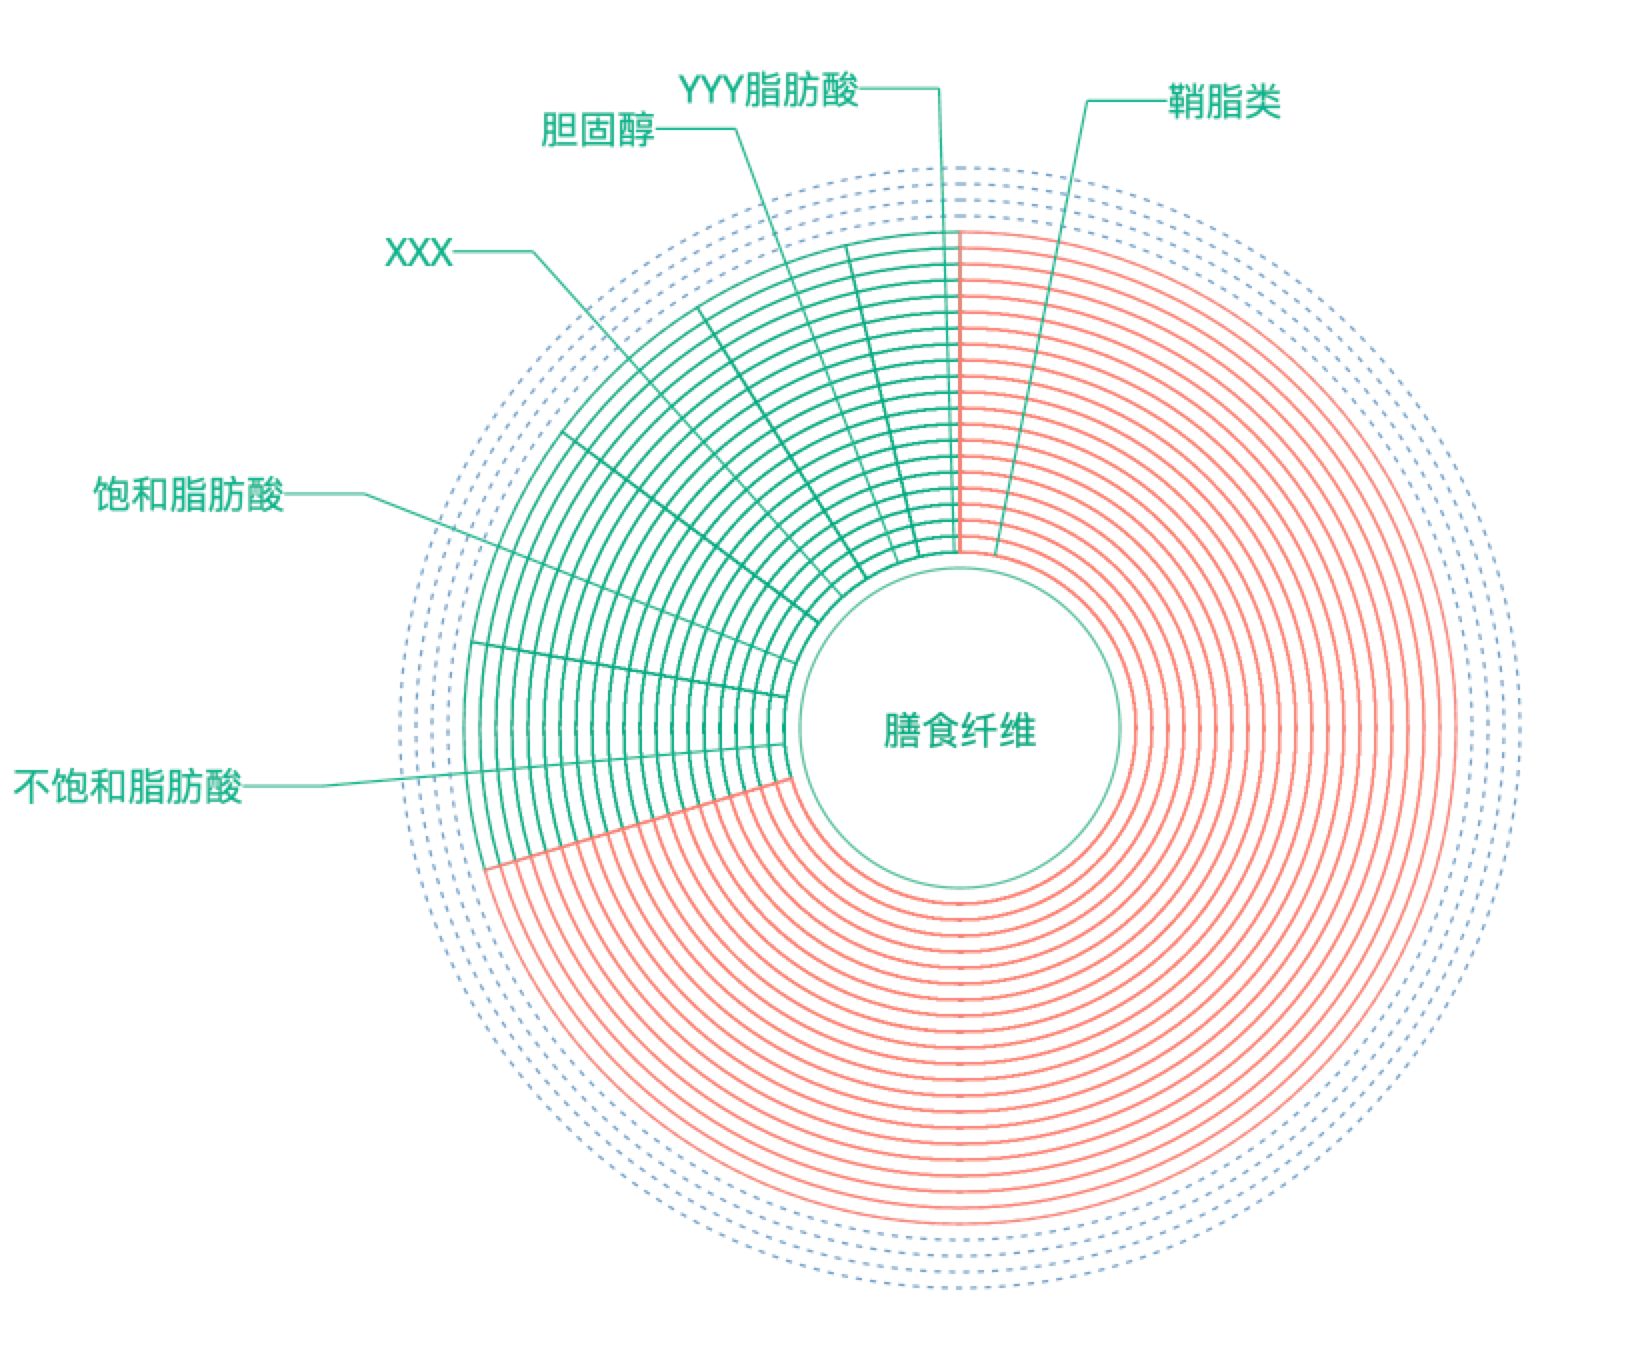
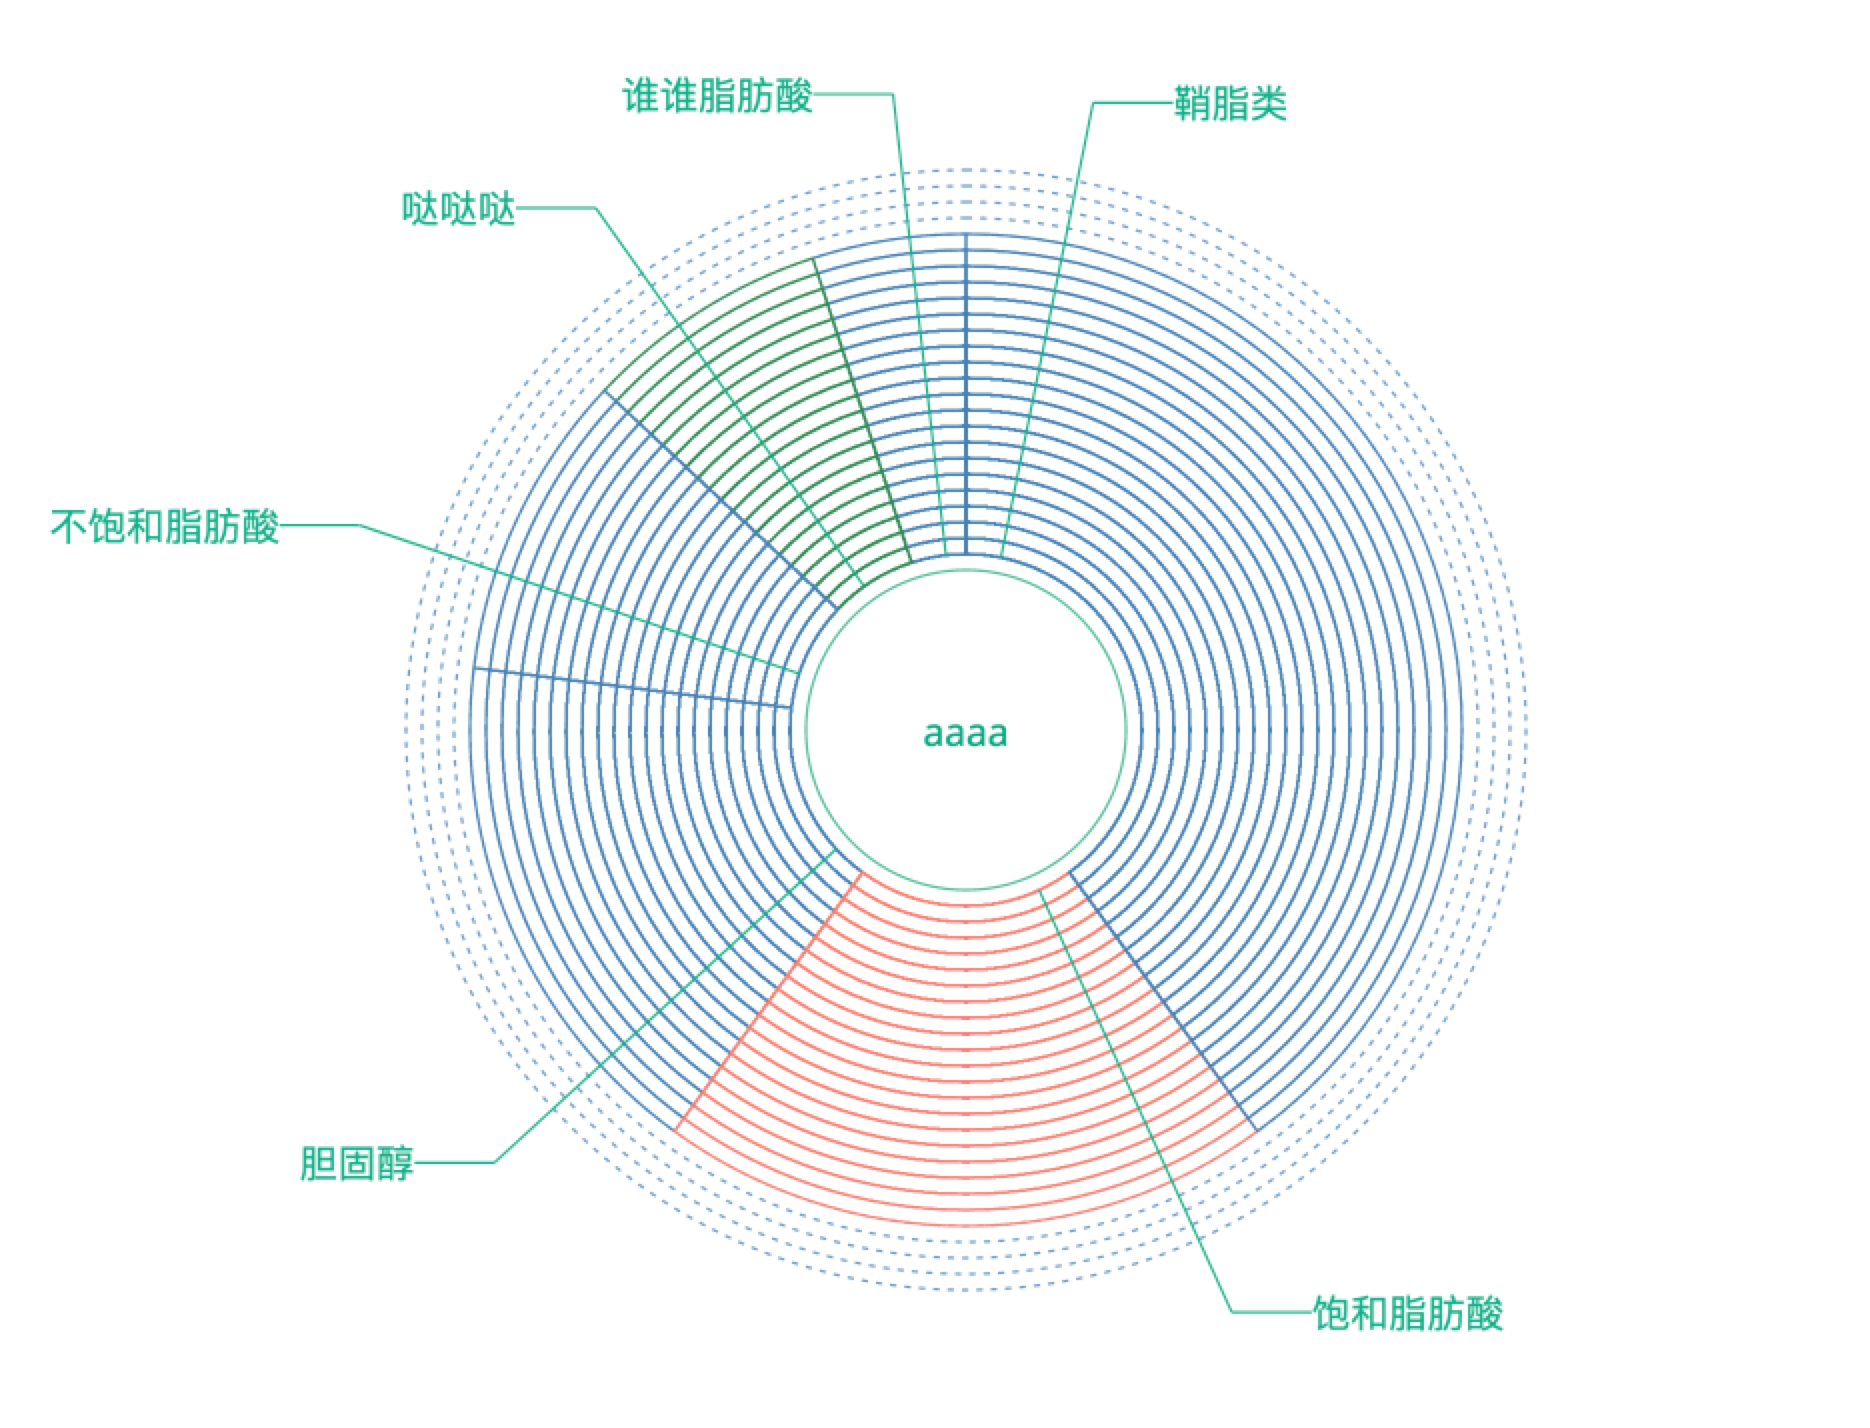
intake-fiber-struct && bins

diff --git a/bin/data2graphics.rollup.js b/bin/data2graphics.rollup.js
@@ -364,9 +364,9 @@ function intakeSugarDistribution(parent, config1, config2) {
 var baseConf = {
     'text': 'adad',
     'data': {
-        'XXX': {
+        '哒哒哒': {
             'value': 0.08,
-            'color': 'steelblue'
+            'color': 'seagreen'
         },
         '胆固醇': {
             'value': 0.17,
@@ -374,13 +374,13 @@ var baseConf = {
         },
         '饱和脂肪酸': {
             'value': 0.2,
-            'color': 'steelblue'
+            'color': 'salmon'
         },
         '不饱和脂肪酸': {
             'value': 0.1,
             'color': 'steelblue'
         },
-        'YYY脂肪酸': {
+        '谁谁脂肪酸': {
             'value': 0.05,
             'color': 'steelblue'
         },
@@ -406,14 +406,25 @@ function intakeFiberStruct(parrent, config) {
         min = 110,
         d = (max - min) / 4;
 
-    var colors = ["#1f77b4", "#ff7f0e", "#2ca02c", "#d62728", "#9467bd", "#8c564b", "#e377c2", "#7f7f7f", "#bcbd22", "#17becf"];
-
     var labels = Object.keys(input.data);
     labels.sort(function (a, b) {
-        return input.data[a] - input.data[b];
+        return input.data[a].value - input.data[b].value;
     });
 
-    var data = Object.values(input.data);
+    var data = Object.values(input.data).map(function (e, i) {
+        return e;
+    });
+    data.sort(function (a, b) {
+        return a.value - b.value;
+    });
+
+    var values = data.map(function (e, i) {
+        return e.value;
+    });
+    // console.log(data)
+    var colors = data.map(function (e, i) {
+        return e.color;
+    });
 
     // detect browser canvas api
     if (!parrent.querySelector("canvas")) {
@@ -483,10 +494,10 @@ function intakeFiberStruct(parrent, config) {
     // draw arcs
     context.save();
 
-    var arcs = d3$1.pie()(data);
+    var arcs = d3$1.pie()(values);
 
     arcs.sort(function (a, b) {
-        return a.value - b.value;
+        return a - b;
     });
 
     var arc = d3$1.arc().innerRadius(min).context(context);
@@ -496,13 +507,14 @@ function intakeFiberStruct(parrent, config) {
 
         context.beginPath();
 
-        if (E.data < 0.75) {
-            context.strokeStyle = '#00ab84';
-        } else if (E.data > 0.9) {
-            context.strokeStyle = 'salmon';
-        } else {
-            context.strokeStyle = 'orange';
-        }
+        // if (E.data < 0.75) {
+        //     context.strokeStyle = '#00ab84'
+        // } else if (E.data > 0.9) {
+        //     context.strokeStyle = 'salmon'
+        // } else {
+        //     context.strokeStyle = 'orange'
+        // }
+        context.strokeStyle = colors[I];
 
         d3$1.range(min, min + 210 - 0 * 30, 10).map(function (e, i) {
             arc.outerRadius(e)(E);
@@ -549,8 +561,16 @@ function intakeFiberStruct(parrent, config) {
         line(lengendsXY);
         context.stroke();
 
-        context.direction = lengendsXY[1][0] > 0 ? 'ltr' : 'rtl';
-        context.fillText(labels[i], lengendsXY[1][0], lengendsXY[1][1]);
+        // context.direction = lengendsXY[1][0] > 0 ? 'ltr' : 'rtl'
+        var text = labels[i];
+
+        if (lengendsXY[1][0] >= 0) {
+            context.fillText(text, lengendsXY[1][0], lengendsXY[1][1]);
+        } else {
+            console.log(text, text.length);
+            // console.log(lengendsXY[1][0])
+            context.fillText(text, lengendsXY[1][0] - text.length * 24, lengendsXY[1][1]);
+        }
     });
 
     context.restore();
@@ -2943,8 +2963,6 @@ function metabolism(parent, config) {
             y: e.y
         };
     });
-
-    console.log(data);
 
     var line = d3$10.line().defined(function (d) {
         return d;

diff --git a/README.md b/README.md
@@ -142,12 +142,30 @@ intakeFiberStruct(oDom, config)
 {
     'text': 'adad',
     'data': {
-        'XXX': 0.08,
-        '胆固醇': 0.17,
-        '饱和脂肪酸': 0.2,
-        '不饱和脂肪酸': 0.1,
-        'YYY脂肪酸': 0.05,
-        '鞘脂类': 0.4
+        '哒哒哒': {
+            'value': 0.08,
+            'color': 'seagreen'
+        },
+        '胆固醇': {
+            'value': 0.17,
+            'color': 'steelblue'
+        },
+        '饱和脂肪酸': {
+            'value': 0.2,
+            'color': 'salmon'
+        },
+        '不饱和脂肪酸': {
+            'value': 0.1,
+            'color': 'steelblue'
+        },
+        '谁谁脂肪酸': {
+            'value': 0.05,
+            'color': 'steelblue'
+        },
+        '鞘脂类': {
+            'value': 0.4,
+            'color': 'steelblue'
+        }
     }
 }
 ```
